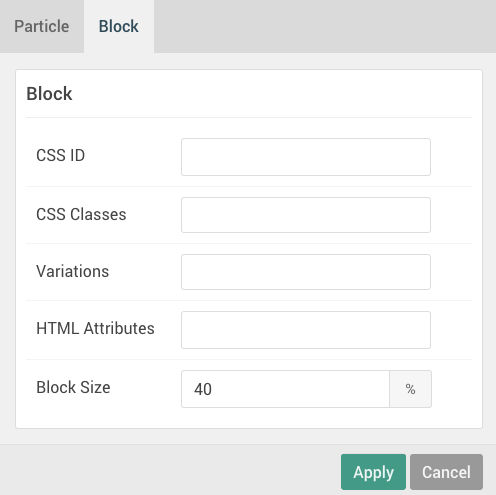
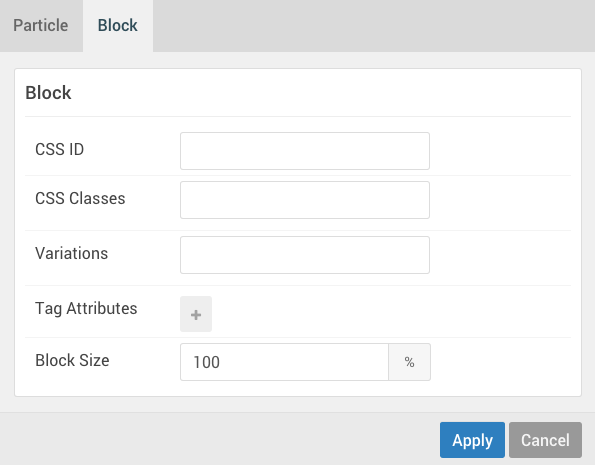
Updated Layout Manager Per @kat05 via #11

diff --git a/pages/01.gantry5/03.configure/04.layout-manager/docs.md b/pages/01.gantry5/03.configure/04.layout-manager/docs.md
@@ -123,15 +123,15 @@ These are **Particle** level settings, which exist in every type of Block. They 
 
 ![Settings](block_settings_2.png) {.border .shadow}
 
-| Setting         | Description                                                                                                  |
-| :------         | :----------------------------------                                                                          |
-| CSS ID          | Enables you to set an ID attribute.                                                                          |
-| CSS Classes     | This is where you would enter any CSS class you would like to have apply to the Block.                       |
-| Variations      | Clicking the field opens a dropdown, enabling you to select variation(s) to apply to the block.              |
-| HTML Attributes | This field is where you would add any other HTML attributes to the Block.                                    |
-| Block Size      | This field gives you the ability to set a specific size (in percentage) the Block will take up horizontally. |
+| Setting        | Description                                                                                                  |
+| :------        | :----------------------------------                                                                          |
+| CSS ID         | Enables you to set an ID attribute.                                                                          |
+| CSS Classes    | This is where you would enter any CSS class you would like to have apply to the block.                       |
+| Variations     | Clicking the field opens a dropdown, enabling you to select variation(s) to apply to the block.              |
+| Tag Attributes | This field is where you would add any other Tag attributes to the block.                                     |
+| Block Size     | This field gives you the ability to set a specific size (in percentage) the block will take up horizontally. |
 
-The **Block** settings make it easy to change the way a particular block looks and behaves, as well as gives you the ability to set a specific width percentage for the Block.
+The **block settings** make it easy to change the way a particular block looks and behaves, as well as gives you the ability to set a specific width percentage for the block.
 
 ### Sidebar Blocks and Grids
 
